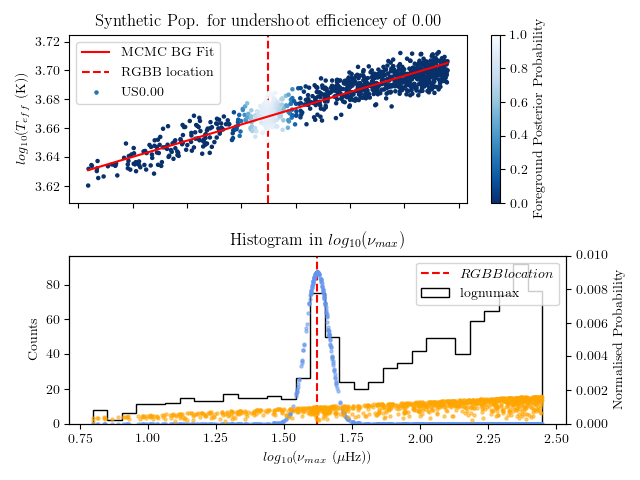
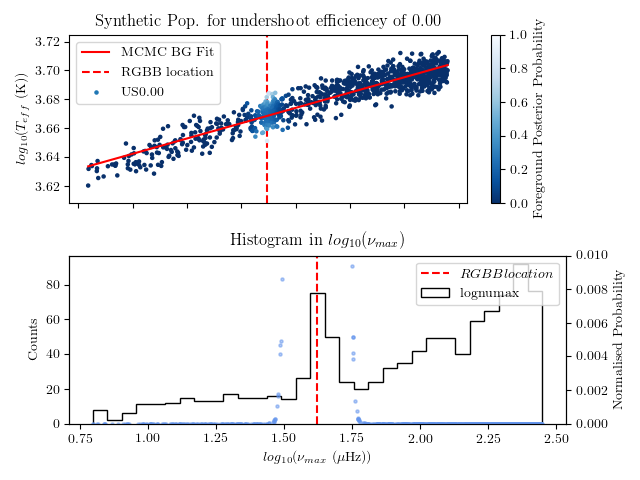
Added 2D probability functionality to both the foreground and background models. Added normalised rising exponential probabilty to the background x distribution.

diff --git a/RGBB_mixmod.py b/RGBB_mixmod.py
@@ -30,26 +30,43 @@ def get_values(US):
     df['logg'] = np.log10(df.g)
     df['lognumax'] = np.log10(df.numax)
     df = df.sort_values(by=['numax'])
-    return df.lognumax, df.Teff, df
+    return df.lognumax, df.logT, df
 
 class cModel:
     '''Models for this run.'''
-    def __init__(self, _x, _y, _amp_offset, _a):
+    def __init__(self, _x, _y):
         self.x = _x
         self.y = _y
-        self.amp_offset = _amp_offset
-        self.a = _a
 
-    def fg(self, p):
-        b, sigb, _, _, _, _ = p
-        return -0.5 * (((b - self.x) / sigb)**2 + 2*np.log(sigb))
+    def prob_y(self, p):
+        _, _, m, c, sigm, _, _ = p
+        #Calculating the likelihood in the Y direction
+        model = m * self.x + c
+        lnLy = -0.5 * (((y - model) / sigm)**2 + 2*np.log(sigm) +np.log(2*np.pi))
+        return lnLy
+
+    def fg_x(self, p):
+        b, sigb, _, _, _, _, _ = p
+
+        #Calculating the likelihood in the X direction
+        lnLx = -0.5 * (((b - self.x) / sigb)**2 + 2*np.log(sigb) +np.log(2*np.pi))
+        return lnLx
+
+    def bg_x(self, p):
+        _, _, _, _, _, lambd, _ = p
+
+        #Calculating the likelihood in the X direction
+        A = lambd * (np.exp(lambd*x.max()) - np.exp(lambd*x.min()))**-1
+        lnLx = np.log(A) + lambd*x
+        return lnLx
 
     def bg(self, p):
-        _, _, m, c, sigm, _ = p
-        model = m * self.x + c
-        Delta = y - model
-        A = self.a * self.x + self.amp_offset
-        return -0.5 * (((Delta) / sigm)**2 + 2*np.log(sigm)) + np.log(A)
+        bg =  self.prob_y(p) + self.bg_x(p)
+        return bg
+
+    def fg(self, p):
+        fg = self.prob_y(p) + self.fg_x(p)
+        return fg
 
 
 if __name__ == '__main__':
@@ -58,14 +75,13 @@ if __name__ == '__main__':
     '''Under: 0.00, 0.025, 0.02, 0.04'''
     for US in ('0.00','0.025','0.02','0.04'):
         x, y, df = get_values(US)
-        print('WARNING: ALL DATA IN LOG BASE 10')
 
-        '''Estimate background parameters in log space'''
+        #Estimate background parameters in log space
         f = np.polyfit(x, y, 1)
         fn = f[1] + x*f[0]
         bins = int(np.sqrt(len(x)))
 
-        '''Plotting the data to be fit to'''
+        #Plotting the data to be fit to
         fig, ax = plt.subplots(2, sharex=True)
         ax[0].scatter(x, y, s=3, label=US+' Undershoot', zorder=1000)
         ax[0].plot(x,f[1] + x*f[0],c='r', label='Polyfit', zorder=999)
@@ -81,14 +97,26 @@ if __name__ == '__main__':
         ax[1].set_title(r"Histogram in $log_{10}$($\nu_{max}$)")
         ax[1].set_xlabel(r"$log_{10}$($\nu_{max}$ ($\mu$Hz))")
         fig.tight_layout()
-        plt.show()
         fig.savefig('Output/Saniya_RGBB/investigate_US_'+US+'.png')
         plt.close('all')
 
-        '''Getting distribution visualisation with KDE'''
+        #Getting distribution visualisation with KDE
         fn = f[1] + x*f[0]
         D = y - fn
 
+
+####---SETTING UP MCMC
+        labels_mc = ["$b$", r"$\sigma(b)$", "$m$", "$c$", r"$\sigma(m)$", r"$\lambda$","$Q$"]
+        std = np.std(D)
+        start_params = np.array([lognuguess, 0.02, f[0], f[1], std, 1.8, 0.5])
+        bounds = [(lognuguess-.05, lognuguess+.05,), (0.01,0.03),\
+                    (f[0]-0.02,f[0]+0.02), (f[1]-0.3,f[1]+0.3), \
+                    (std*0.5,std*1.5), (1.4, 2.2), (0,1)]
+        Model = cModel(x, y)
+        lnprior = cPrior.Prior(bounds)
+        Like = cLikelihood.Likelihood(lnprior,Model)
+
+####---CHECKING MODELS BEFORE RUN
         #Getting the KDE of the 2D distribution
         Dxxyy = np.ones([len(x),2])
         Dxxyy[:,0] = x
@@ -107,7 +135,7 @@ if __name__ == '__main__':
             for jdx, j in enumerate(Dyy):
                 Dd[jdx, idx] = Dkde([i,j])
 
-        '''Plotting residuals with histograms'''
+        #Plotting residuals with histograms
         left, bottom, width, height = 0.1, 0.35, 0.65, 0.60
         fig = plt.figure(1, figsize=(10,10))
         sax = fig.add_axes([left, bottom, width, height])
@@ -127,67 +155,21 @@ if __name__ == '__main__':
         sax.axhline(0.,c='r',label='Polyfit',zorder=1001)
         sax.legend(loc='best',fancybox=True)
 
-        yax.hist(D,bins=int(np.sqrt(len(D))),histtype='step',orientation='horizontal')
+        yax.hist(D,bins=int(np.sqrt(len(D))),histtype='step',orientation='horizontal', normed=True)
+        yax.scatter(np.exp(Model.prob_y(start_params)), D,c='orange')
         yax.set_ylim(sax.get_ylim())
-        xax.hist(x,bins=int(np.sqrt(len(x))),histtype='step')
 
-        sax.set_ylabel(r"$T_{eff}$ - Straight Line Model")
-        xax.set_xlabel(r"$log_{10}()\nu_{max})$")
+        xax.hist(x,bins=int(np.sqrt(len(x))),histtype='step',normed=True)
+        xax.scatter(x,np.exp(Model.bg_x(start_params)),c='orange')
+        xax.scatter(x,np.exp(Model.fg_x(start_params)),c='cornflowerblue')
+
+        sax.set_ylabel(r"$log_{10}(T_{eff})$ - Straight Line Model")
+        xax.set_xlabel(r"$log_{10}(\nu_{max})$")
         fig.savefig('Output/Saniya_RGBB/KDE_visual_'+US+'.png')
-
         plt.show()
-
-
-        plt.show()
-        sys.exit()
-
-
-
-        '''Plotting and calculating the change in distribution amplitude'''
-        diff = y - fn
-        scope = np.arange(1., 2.75, 0.25)
-        fig, ax = plt.subplots(2)
-        lo = 0.75
-        i = 0
-        nums = np.ones_like(scope)
-        xes = np.ones_like(scope)
-        for hi in scope:
-            data1 = diff[x > lo]
-            data = data1[x < hi]
-            n, _,_ = ax[0].hist(data,bins=int(np.sqrt(len(data))),histtype='step',label=str(lo)+'-'+str(hi))
-            nums[i] = n.max()
-            xes[i] = np.mean([lo,hi])
-            i += 1
-            lo = hi
-        ax[0].legend(loc='best',fancybox=True)
-        ax[0].set_xlabel(r"$T_{eff}$ - Polyfit")
-        ax[0].set_ylabel('Counts per bin')
-
-        l = np.polyfit(xes, nums, 1)
-        ax[1].scatter(xes,nums)
-        ax[1].plot(xes,xes*l[0]+l[1],label='Polyfit')
-        ax[1].plot(xes,xes*l[0]*1.5+l[1],label='Upper Limit')
-        ax[1].plot(xes,xes*l[0]*0.5+l[1], label='Lower Limit')
-        ax[1].legend(loc='best',fancybox=True)
-        ax[1].set_xlabel(r"$\nu_{max}$")
-        ax[1].set_ylabel(r"Distribution Amplitude")
-        fig.tight_layout()
-        fig.savefig('Output/Saniya_RGBB/amplitude_US_'+US+'.png')
         plt.close('all')
 
-####---SETTING UP AND RUNNING MCMC
-        labels_mc = ["$b$", r"$\sigma(b)$", "$m$", "$c$", r"$\sigma(m)$","$Q$"]
-        std = np.std(diff)
-        start_params = np.array([lognuguess, 0.02, f[0], f[1], std, 0.5])
-        bounds = [(lognuguess-.05, lognuguess+.05,), (0.01,0.05),\
-                    (f[0]-0.02,f[0]+0.02), (f[1]-0.3,f[1]+0.3), \
-                    (std*0.5,std*1.5), (0,1)]#(l[0]*0.5, l[0]*1.5),
-                    # (0, 1)]
-
-        Model = cModel(x, y, l[1], l[0])
-        lnprior = cPrior.Prior(bounds)
-        Like = cLikelihood.Likelihood(lnprior,Model)
-
+####---RUNNING MCMC
         ntemps, nwalkers = 4, 32
 
         Fit = cMCMC.MCMC(start_params, Like, lnprior, 'none', ntemps, 1000, nwalkers)
@@ -211,36 +193,45 @@ if __name__ == '__main__':
             res[idx] = np.median(chain[:,idx])
             std[idx] = np.std(chain[:,idx])
 
-        fig, ax = plt.subplots(2, sharex=True)
-        pos = ax[0].scatter(x, y, s=5, c=fg_pp, cmap='Blues_r', vmin=0, vmax=1, zorder=1000,label='US'+str(US))
-        fig.colorbar(pos,ax=ax[0],label='Foreground Posterior Probability')
-        ax[0].plot(x,res[2]*x+res[3],c='r',zorder=1001,label='MCMC BG Fit')
-        ax[0].set_title('Synthetic Pop. for undershoot efficiencey of '+US)
-        ax[0].set_ylabel(r"$log_{10}$($T_{eff}$ (K))")
-        ax[0].axvline(res[0],linestyle='--',c='r',label=r"RGBB location")
-        ax[0].legend(loc='best',fancybox=True)
+        #Plotting residuals with histograms
+        left, bottom, width, height = 0.1, 0.35, 0.65, 0.60
+        fig = plt.figure(1, figsize=(10,10))
+        sax = fig.add_axes([left, bottom, width, height])
+        yax = fig.add_axes([left+width+0.02, bottom, 0.2, height])
+        xax = fig.add_axes([left, 0.1, width, 0.22], sharex=sax)
+        sax.xaxis.set_visible(False)
+        yax.set_yticklabels([])
+        xax.grid()
+        xax.set_axisbelow(True)
+        yax.grid()
+        yax.set_axisbelow(True)
 
-        fg_m = np.exp(Like.lnlike_fg(res))
-        bg_m = np.exp(Like.lnlike_bg(res))
-        # weights = np.ones_like(x)/float(len(x))
-        hy, _, _ = ax[1].hist(x, bins=bins, color ='k', histtype='step')
-        ax2 = ax[1].twinx()
-        ax2.scatter(x,fg_m, c='cornflowerblue',alpha=.5,label='FG',s=5)
-        ax2.scatter(x,bg_m, c='orange',alpha=.5,label='BG',s=5)
-        ax[1].axvline(res[0],linestyle='--',c='r',label=r"$RGBB location")
-        ax[1].set_title(r"Histogram in $log_{10}$($\nu_{max}$)")
-        ax[1].set_xlabel(r"$log_{10}$($\nu_{max}$ ($\mu$Hz))")
-        ax[1].set_ylabel('Counts')
-        ax2.set_ylabel('Normalised Probability')
-        ax2.set_ylim(0.,0.010)
-        ax[1].legend(loc='best',fancybox=True)
-        fig.tight_layout()
-        fig.savefig('Output/Saniya_RGBB/results_'+US+'.png')
+        fig.suptitle('Resulting probability distributions, US '+US)
+
+        fn = res[2]*x + res[3]
+        Dr = y - fn
+        sax.scatter(x, Dr, c=fg_pp,cmap='Blues_r',label=US)
+        sax.axhline(0.,c='r',label='Straight line fit',zorder=1001)
+        sax.legend(loc='best',fancybox=True)
+
+        yax.hist(Dr,bins=int(np.sqrt(len(Dr))),histtype='step',orientation='horizontal', normed=True)
+        yax.scatter(np.exp(Model.prob_y(res)), Dr,c='orange')
+        yax.set_ylim(sax.get_ylim())
+
+        xax.hist(x,bins=int(np.sqrt(len(x))),histtype='step',normed=True)
+        xax.scatter(x,np.exp(Model.bg_x(res)),c='orange')
+        xax.scatter(x,np.exp(Model.fg_x(res)),c='cornflowerblue')
+
+        sax.set_ylabel(r"$log_{10}(T_{eff})$ - Straight Line Model")
+        xax.set_xlabel(r"$log_{10}(\nu_{max})$")
+        fig.savefig('Output/Saniya_RGBB/result_'+US+'.png')
         plt.show()
-        plt.close()
-        # ax[1].scatter(x,fg_m/fg_m.max()*hy.max(),c='cornflowerblue',alpha=.5,label='FG',s=5)
-        # ax[1].scatter(x,bg_m/bg_m.max()*hy.max(),c='orange',alpha=.5,label='BG',s=5)
+        plt.close('all')
 
+
+
+
+        #Plotting identified RGBB stars
         fig, ax = plt.subplots()
         ax.scatter(df.Teff[mask], df.numax[mask], c='y', s=3, label='RGBB Stars')
         ax.scatter(df.Teff[~mask], df.numax[~mask], c='g', s=3, label='RGB Stars')
@@ -255,37 +246,7 @@ if __name__ == '__main__':
         plt.close('all')
 
 
-        '''Plotting the straight line fit probabilities'''
-        fn = f[1] + x*f[0]
-        diff = y - fn
-        stdd = np.std(diff)
-        bg = np.exp(Like.lnlike_bg(res))
-        bg = np.exp(Model.bg(res))
-        scope = np.arange(1., 2.75, 0.25)
-        lo = 0.75
-        i = 0
-
-        fig, ax = plt.subplots(2,sharex=True)
-        for hi in scope:
-            data = diff[x > lo]
-            data = data[x < hi]
-            dbg = bg[x > lo]
-            dbg = dbg[x < hi]
-            stdd = np.std(data)
-
-            n, _,_ = ax[0].hist(data,bins=int(np.sqrt(len(data))),histtype='step',label=str(lo)+'-'+str(hi))
-            ax[1].scatter(data, dbg, s=5, label=str(lo)+'-'+str(hi))
-
-            lo = hi
-        ax[0].legend(loc='best',fancybox=True)
-        ax[1].legend(loc='best',fancybox=True)
-        ax[1].set_xlabel(r"$T_{eff}$ - Straight Line Fit")
-        ax[0].set_ylabel('Counts per bin')
-        ax[1].set_ylabel(r"Background Probability")
-        fig.tight_layout()
-        fig.savefig('Output/Saniya_RGBB/results_fg_'+US+'.png')
-        plt.close('all')
-
+        #Saving out the data with new labels
         df['label'] = ''
         df.label[mask] = 'RGBB'
         df.label[~mask] = 'RGB'

diff --git a/algebra.py b/algebra.py
@@ -12,10 +12,6 @@ if __name__ == '__main__':
     p = np.array([4.60535762e+02, 3.92085724e+03, 6.98355734e+01 , 1.])
 
 
-    fig, ax = plt.subplots()
-    plt.show()
-    sys.exit()
-
     init_printing(use_unicode=False, wrap_line=False, no_global=True)
     x, y, c, m, lam, sig = symbols(['x', 'y', 'c', 'm','lam', 'sig'])
 
@@ -26,7 +22,7 @@ if __name__ == '__main__':
     # A = 1/Intx(p[-1])
 
     fn = -0.5*((y - c - m*x)/sig)**2
-    Ii = integrate(exp(fn), (x,-oo,oo), (y,-oo,oo))
+    Ii = integrate(exp(fn), (x,0,oo), (y,0,oo))
     # Iy = integrate(exp(fn), (x,xlo,xhi), (y,ylo,yhi))
 
     print(I)

diff --git a/cLikelihood.py b/cLikelihood.py
@@ -7,16 +7,11 @@ class Likelihood:
         self.Model = _Model
 
     def lnlike_fg(self, p):
-        regmod = np.exp(self.Model.fg(p))
-        corrmod = regmod / np.sum(regmod)
-        return np.log(corrmod)
+        return self.Model.fg(p)
 
 # The "background" outlier likelihood:
     def lnlike_bg(self, p):
-        regmod = np.exp(self.Model.bg(p))
-        corrmod = regmod / np.sum(regmod)
-        return np.log(corrmod)
-
+        return self.Model.bg(p)
 # Full probabilistic model.
     def lnprob(self, p):
         Q = p[-1]
